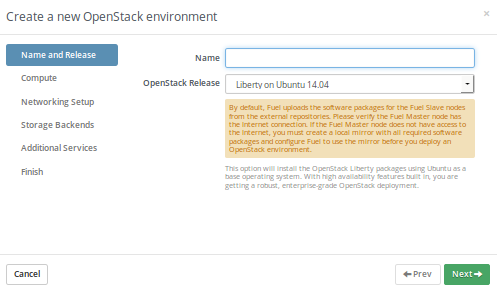
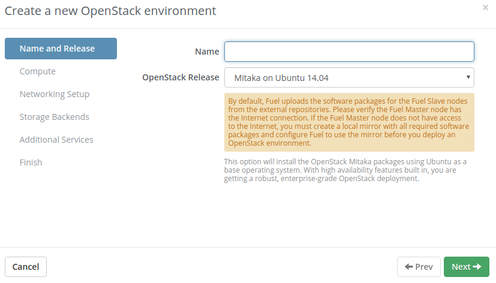
Added MOS 9.0 support
- Task-based deployment support.
  - Hot-plug and LCM support (Experimental).
  - Updated documentaion.
  - Cleaned up puppet.
  - Refactored deployment_tasks.yaml
  - Removed all stuff related to default MOS backends.
    9.0 has built-in multibackend, so just add new backend.

diff --git a/doc/source/conf.py b/doc/source/conf.py
@@ -54,9 +54,9 @@ author = u'Mirantis Inc.'
 # built documents.
 #
 # The short X.Y version.
-version = '4.2-4.2.1-1'
+version = '5.0'
 # The full version, including alpha/beta/rc tags.
-release = '4.2-4.2.1-1'
+release = '5.0-5.0.0-1'
 
 # The language for content autogenerated by Sphinx. Refer to documentation
 # for a list of supported languages.

diff --git a/doc/source/description.rst b/doc/source/description.rst
@@ -22,10 +22,8 @@ Features
 * Clustered Data ONTAP as a backend for Cinder with NFS or iSCSI data-transfer protocols
 * Data ONTAP 7-Mode as a backend for Cinder with NFS or iSCSI data-transfer protocols
 * E-Series or EF-Series as a backend for Cinder with iSCSI data-transfer protocol
-* Supports multi backend feature. The plugin does not overwrite ``enabled_backends`` option
-  thereby allowing use other plugins for Cinder.
-* Allows using NetApp as a backend for Cinder along with MOS default backends - ``LVM over iSCSI`` or ``Ceph``
-* Supports all configuration options of NetApp Cinder driver for Liberty
+* Supports Cinder multibackend
+* Supports all configuration options of NetApp Cinder driver for Mitaka
 
 
 Requirements
@@ -33,7 +31,7 @@ Requirements
 ======================= =================================
 Requirement             Version/Comment
 ======================= =================================
-Fuel                    8.0
+Fuel                    9.0
 NetApp Storage System   Clustered ONTAP Data
 
                         Data ONTAP 7-Mode
@@ -53,19 +51,20 @@ Prerequisites
 
 Release Notes
 -------------
-* Added true support of multi backends
-* Legacy of CentOS support for iSCSI was removed
-* Added comments to source code
-* Documentation is updated\fixed
+* Added MOS 9.0 support
+* Removed code related to MOS backends
+* Added MOS LCM support (Experimental)
 
 Limitations
 -----------
-* Deployment fails if ``cinder`` role is not assigned to ``controller`` nodes
 * Only one NetApp backend can be configured to work with Cinder
 * Before creating Ubuntu repository's mirrors in Fuel, you have to manually add to /usr/share/fuel-mirror/ubuntu.yaml following packages:
+
   * nfs-common
   * open-iscsi
   * multipath-tools
+
+* MOS LCM support is in experimental mode
 
 .. _the official NetApp ONTAP documentation: http://mysupport.netapp.com/documentation/productlibrary/index.html?productID=30092
 .. _the official NetApp E-Series documentation: https://mysupport.netapp.com/info/web/ECMP1658252.html

diff --git a/README.md b/README.md
@@ -4,7 +4,7 @@ Cinder NetApp plugin for Fuel
 Overview
 --------
 
-The plugin can replace Cinder default backend by Cinder NetApp backend or work in parallel. ``LVM over iSCSI`` and ``Ceph`` are two choices, which can be used as a default backend for Cinder. The plugin does not overwrite ``enabled_backends`` option that allows to use it with other plugins for Cinder backends.
+The plugin configures NetApp backend for Cinder using multibackend feature.
 
 
 The plugin support following storage families:
@@ -20,12 +20,20 @@ Requirements
 
 | Requirement                                                                              | Version/Comment                                                        |
 |------------------------------------------------------------------------------------------|------------------------------------------------------------------------|
-| Mirantis Openstack compatibility                                                         | 8.0                                                                    |
-| Netapp filer or appliance is reachable via one of the Mirantis OpenStack networks        | Data ONTAP or E-Series/EF-Series storage family with NTS\iSCSI enabled |
+| Mirantis Openstack compatibility                                                         | 9.0                                                                    |
+| Netapp filer or appliance is reachable via one of the Mirantis OpenStack networks        | Data ONTAP or E-Series/EF-Series storage family with NFS\iSCSI enabled |
 
 
 Release Notes
 -------------
+
+**5.0.0**
+
+* Added MOS 9.0 support
+
+* Removed code related to MOS backends
+
+* Added MOS LCM support (Experimental)
 
 **4.2.1**
 

diff --git a/doc/source/guide.rst b/doc/source/guide.rst
@@ -18,12 +18,6 @@ Once the Fuel Cinder NetApp plugin has been installed, you can create OpenStack 
    .. image:: images/select-checkbox.png
       :width: 40%
 
-#. Configure the plugin.Select **MOS Backend Enabled** checkbox
-   if you would like Cinder NetApp driver to be used along with default beckend for MOS Cinder:
-
-   .. image:: images/default_backend.png
-      :width: 50%
-
 #. Choose storage family and storage protocol. Several options are available.
 
    - If you plan to use Clustered Data mode through NFS, click **Clustered Data ONTAP**
@@ -98,7 +92,6 @@ Once the Fuel Cinder NetApp plugin has been installed, you can create OpenStack 
         :width: 100%
 
 #. Using *Nodes* tab, `add nodes and assign roles to them`_.
-   Please, note that all controller nodes **MUST** be configured with Cinder role as well.
 
 #. This step is needed only when local fuel mirrors are used
    Following packages ``nfs-common``, ``open-iscsi``, ``multipath-tools`` aren't included by default when local mirror is created. To have these packages available during deploy you have to add them into  ``/usr/share/fuel-mirror/ubuntu.yaml`` file in ``packages: &packages`` section.

diff --git a/doc/source/installation.rst b/doc/source/installation.rst
@@ -10,18 +10,18 @@ To install the Cinder Netapp plugin, follow these steps:
    have the Fuel Master node, please see `the official
    Mirantis OpenStack documentation`_::
 
-      [root@home ~]# scp cinder_netapp-4.2-4.2.1-1.noarch.rpm root@fuel-master:/tmp
+      [root@home ~]# scp cinder_netapp-5.0-5.0.0-1.noarch.rpm root@fuel-master:/tmp
 
 #. Log into Fuel Master node and install the plugin using the `Fuel CLI`_::
 
-      [root@fuel-master ~]# fuel plugins --install cinder_netapp-4.2-4.2.1-1.noarch.rpm
+      [root@fuel-master ~]# fuel plugins --install cinder_netapp-5.0-5.0.0-1.noarch.rpm
 
 #. Verify that the plugin is installed correctly::
 
      [root@fuel-master ~]# fuel plugins
      id | name          | version | package_version
      ---|---------------|---------|----------------
-     1  | cinder_netapp | 4.2.1   | 4.0.0
+     1  | cinder_netapp | 5.0.0   | 4.0.0
 
 .. _Fuel Plugins Catalog: https://www.mirantis.com/products/openstack-drivers-and-plugins/fuel-plugins/
 .. _the official Mirantis OpenStack documentation: http://docs.openstack.org/developer/fuel-docs/userdocs/fuel-install-guide.html

diff --git a/doc/source/index.rst b/doc/source/index.rst
@@ -1,5 +1,5 @@
 ============================================
-Guide to the Cinder NetApp plugin ver. 4.2.1
+Guide to the Cinder NetApp plugin ver. 5.0.0
 ============================================
 
 This document will guide you through the steps to install,
